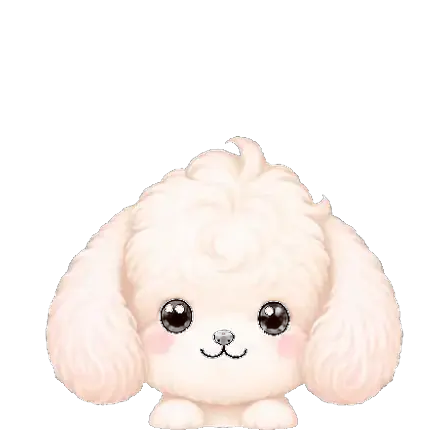
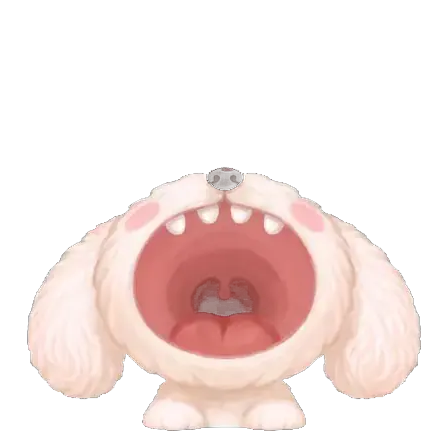
으악 정지컷=입벌린 프레임 + 연속 전송 시 자판 유지
1. yell-still.png를 입 벌려 '으악' 지르는 프레임(16번)으로 교체 — 멈춰있으면
   기본(닫힌 입) 포즈라 으악인지 몰랐음. 서랍 썸네일이 이제 입 벌린 으악.
2. 한 줄씩 연속 전송 시 자판이 꺼지던 문제 — 전송 버튼이 입력창 포커스를 뺏어서였음.
   send 버튼에 onPointerDown preventDefault(포커스 안 뺏김) + send()에서 textarea refocus.
   이제 전송해도 자판 유지돼 연속으로 보내기 편함.

Changed region(s): [[0.0625, 0.2812, 0.9375, 0.9688]]

diff --git a/src/components/ChatPanel.tsx b/src/components/ChatPanel.tsx
@@ -520,7 +520,7 @@ export default function ChatPanel({ me, partner, messages, open, onClose, onSend
     }
     onSend(t, undefined, undefined, replyTo ?? undefined);
     setDraft(''); setReplyTo(null); stopTyping();
-    if (taRef.current) taRef.current.style.height = 'auto';
+    if (taRef.current) { taRef.current.style.height = 'auto'; taRef.current.focus(); }  // 연속 전송 — 자판 유지
     // 링크가 들어있으면 "이거봐봐에 저장할까요?" 물어보기
     const url = firstUrl(t);
     if (url) setLinkPrompt(url);
@@ -1135,7 +1135,8 @@ export default function ChatPanel({ me, partner, messages, open, onClose, onSend
                       className="shrink-0 w-11 h-11 rounded-full bg-white border border-black/5 text-[#FB7BA8] flex items-center justify-center active:scale-95 transition">
                       <Hourglass size={18} />
                     </button>
-                    <button onClick={send} aria-label="보내기"
+                    {/* onPointerDown preventDefault — 버튼이 입력창 포커스를 뺏지 않게(연속 전송 시 자판 유지) */}
+                    <button onClick={send} onPointerDown={(e) => e.preventDefault()} aria-label="보내기"
                       className="shrink-0 w-11 h-11 rounded-full bg-[#FB7BA8] text-white flex items-center justify-center shadow-[0_4px_14px_rgba(251,123,168,0.35)] active:scale-90 transition">
                       <Send size={18} />
                     </button>
